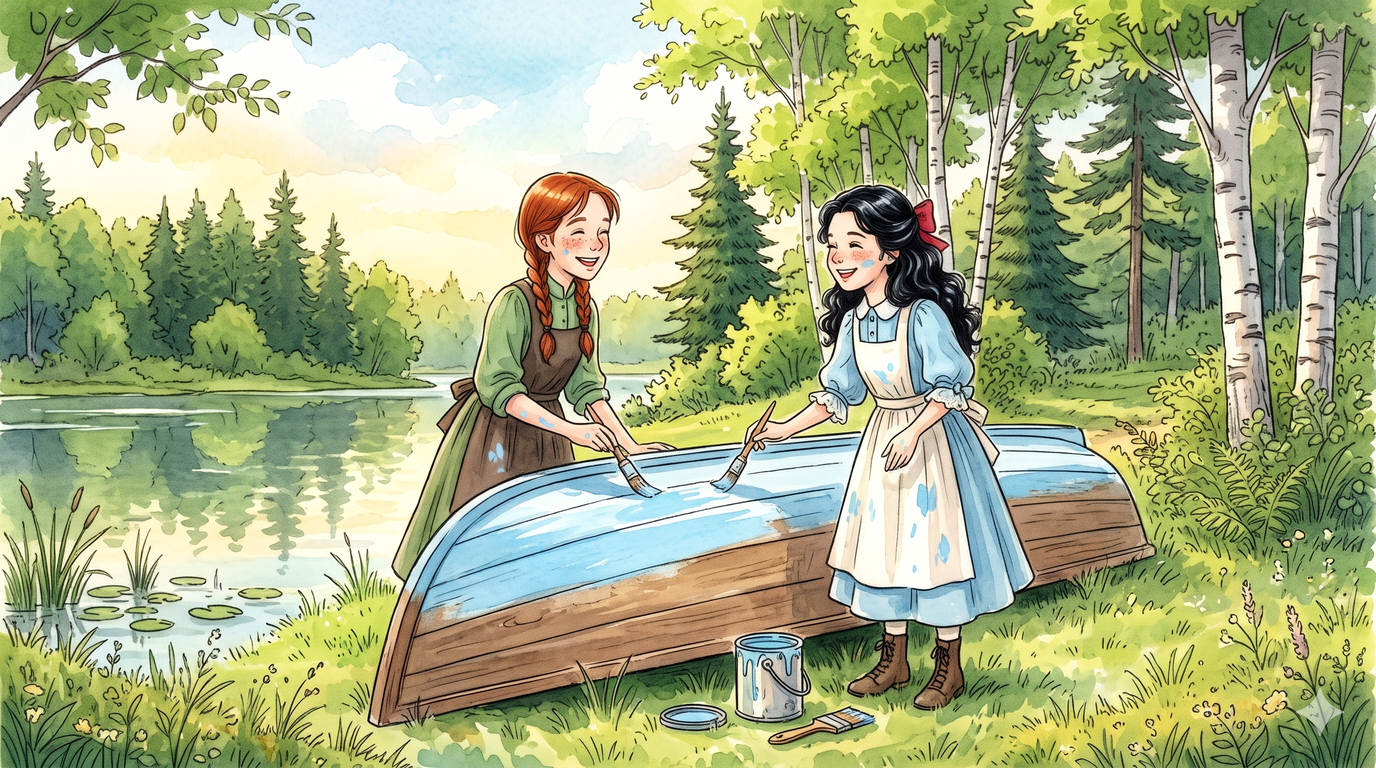
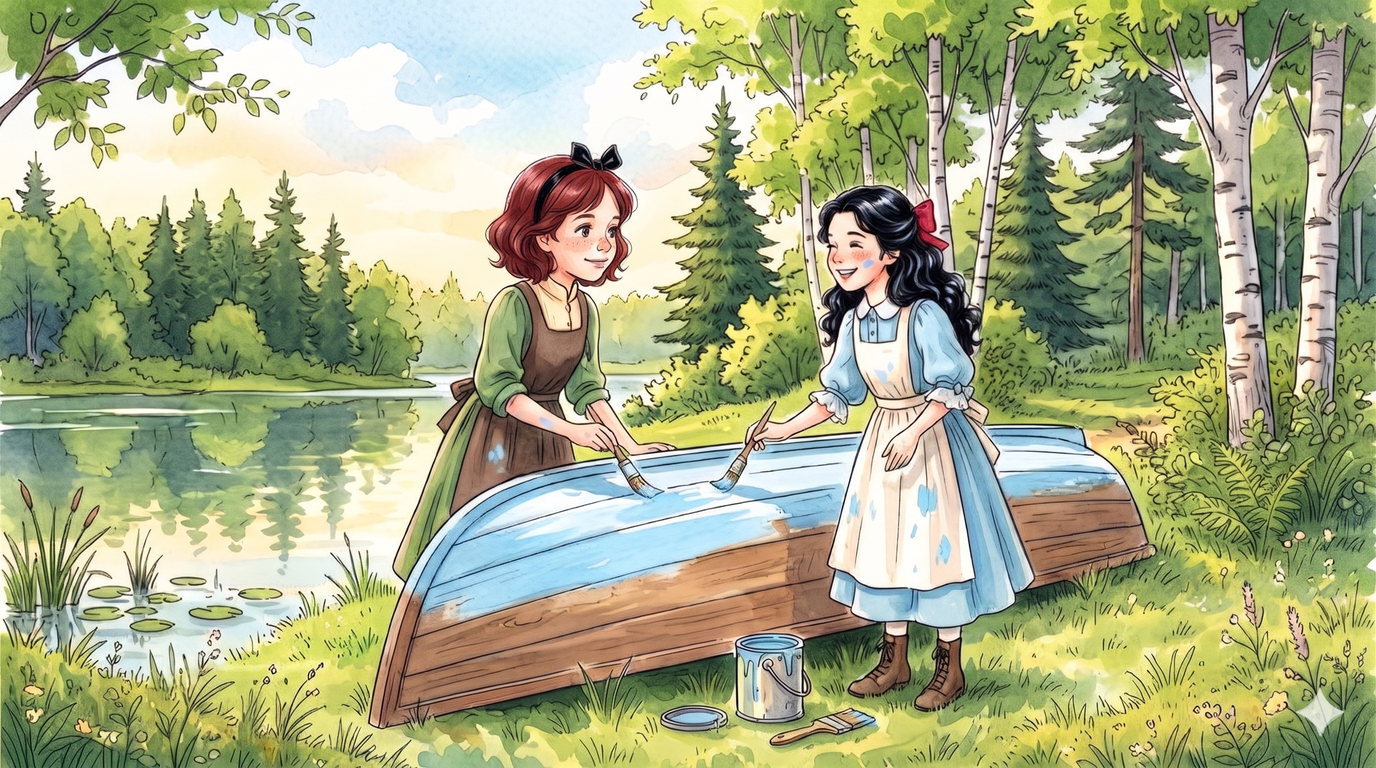
9장 앤 곱슬머리+검은 리본 인물 그림 5장·결말 2장 머리 수정, 어른 앤(적갈색 땋아 올린 머리)·어른 다이애나 새로, 10장 첫 장면 어른 앤

diff --git a/easy/index.html b/easy/index.html
@@ -604,7 +604,7 @@
 <div class="toast" id="toast"></div>
 <div class="tip" id="tip" hidden></div>
 
-<script id="embedded-images">window.EMBEDDED_IMAGES = {}; window.STUDENT_MODE = true; window.EASY_MODE = true; window.IMAGE_FILES = {"allan": "img/allan.webp", "anne_angry": "img/anne_angry.webp", "anne_dreamy": "img/anne_dreamy.webp", "anne_green_hair": "img/anne_green_hair.webp", "anne_grown": "img/anne_grown.webp", "anne_happy": "img/anne_happy.webp", "anne_sad": "img/anne_sad.webp", "anne_short_dreamy": "img/anne_short_dreamy.webp", "anne_short_happy": "img/anne_short_happy.webp", "anne_short_sad": "img/anne_short_sad.webp", "anne_surprised": "img/anne_surprised.webp", "av_allan": "img/av_allan.webp", "av_barry": "img/av_barry.webp", "av_diana": "img/av_diana.webp", "av_gilbert": "img/av_gilbert.webp", "av_lynde": "img/av_lynde.webp", "av_marilla": "img/av_marilla.webp", "av_matthew": "img/av_matthew.webp", "barry": "img/barry.webp", "ch1": "img/ch1.webp", "ch10": "img/ch10.webp", "ch10_hill": "img/ch10_hill.webp", "ch10_home": "img/ch10_home.webp", "ch10_pasture": "img/ch10_pasture.webp", "ch1_avenue": "img/ch1_avenue.webp", "ch1_home": "img/ch1_home.webp", "ch1_pond": "img/ch1_pond.webp", "ch1_road": "img/ch1_road.webp", "ch2": "img/ch2.webp", "ch2_lane": "img/ch2_lane.webp", "ch2_lynde": "img/ch2_lynde.webp", "ch2_night": "img/ch2_night.webp", "ch2_room": "img/ch2_room.webp", "ch3": "img/ch3.webp", "ch3_bridge": "img/ch3_bridge.webp", "ch3_garden": "img/ch3_garden.webp", "ch3_path": "img/ch3_path.webp", "ch4": "img/ch4.webp", "ch4_birch": "img/ch4_birch.webp", "ch4_spruce": "img/ch4_spruce.webp", "ch4_yard": "img/ch4_yard.webp", "ch5": "img/ch5.webp", "ch5_dusk": "img/ch5_dusk.webp", "ch5_orchard": "img/ch5_orchard.webp", "ch6": "img/ch6.webp", "ch6_barry": "img/ch6_barry.webp", "ch6_morning": "img/ch6_morning.webp", "ch6_snow": "img/ch6_snow.webp", "ch7": "img/ch7.webp", "ch7_garden": "img/ch7_garden.webp", "ch7_spring": "img/ch7_spring.webp", "ch8": "img/ch8.webp", "ch8_attic": "img/ch8_attic.webp", "ch8_mirror": "img/ch8_mirror.webp", "ch8_porch": "img/ch8_porch.webp", "ch9": "img/ch9.webp", "ch9_bridge": "img/ch9_bridge.webp", "ch9_drift": "img/ch9_drift.webp", "diana": "img/diana.webp", "diana_grown": "img/diana_grown.webp", "doctor": "img/doctor.webp", "ed_ch1_bal": "img/ed_ch1_bal.webp", "ed_ch1_canon": "img/ed_ch1_canon.webp", "ed_ch1_imag": "img/ed_ch1_imag.webp", "ed_ch2_bal": "img/ed_ch2_bal.webp", "ed_ch2_canon": "img/ed_ch2_canon.webp", "ed_ch2_imag": "img/ed_ch2_imag.webp", "ed_ch3_bal": "img/ed_ch3_bal.webp", "ed_ch3_canon": "img/ed_ch3_canon.webp", "ed_ch3_imag": "img/ed_ch3_imag.webp", "ed_ch4_bal": "img/ed_ch4_bal.webp", "ed_ch4_canon": "img/ed_ch4_canon.webp", "ed_ch4_imag": "img/ed_ch4_imag.webp", "ed_ch5_bal": "img/ed_ch5_bal.webp", "ed_ch5_canon": "img/ed_ch5_canon.webp", "ed_ch5_imag": "img/ed_ch5_imag.webp", "ed_ch6_bal": "img/ed_ch6_bal.webp", "ed_ch6_canon": "img/ed_ch6_canon.webp", "ed_ch6_imag": "img/ed_ch6_imag.webp", "ed_ch7_bal": "img/ed_ch7_bal.webp", "ed_ch7_canon": "img/ed_ch7_canon.webp", "ed_ch7_imag": "img/ed_ch7_imag.webp", "ed_ch8_bal": "img/ed_ch8_bal.webp", "ed_ch8_canon": "img/ed_ch8_canon.webp", "ed_ch8_imag": "img/ed_ch8_imag.webp", "ed_ch9_bal": "img/ed_ch9_bal.webp", "ed_ch9_canon": "img/ed_ch9_canon.webp", "ed_ch9_imag": "img/ed_ch9_imag.webp", "gilbert": "img/gilbert.webp", "gilbert_grown": "img/gilbert_grown.webp", "it_auburn": "img/it_auburn.webp", "it_avery": "img/it_avery.webp", "it_bend": "img/it_bend.webp", "it_bookmark": "img/it_bookmark.webp", "it_bottle": "img/it_bottle.webp", "it_candle": "img/it_candle.webp", "it_candy": "img/it_candy.webp", "it_carpetbag": "img/it_carpetbag.webp", "it_choco": "img/it_choco.webp", "it_dye": "img/it_dye.webp", "it_garden": "img/it_garden.webp", "it_hanky": "img/it_hanky.webp", "it_iris": "img/it_iris.webp", "it_jamKey": "img/it_jamKey.webp", "it_lily": "img/it_lily.webp", "it_lock": "img/it_lock.webp", "it_maple": "img/it_maple.webp", "it_namecard": "img/it_namecard.webp", "it_narcissi": "img/it_narcissi.webp", "it_narcissus": "img/it_narcissus.webp", "it_note": "img/it_note.webp", "it_oar": "img/it_oar.webp", "it_pansy": "img/it_pansy.webp", "it_pebble": "img/it_pebble.webp", "it_petal": "img/it_petal.webp", "it_pile": "img/it_pile.webp", "it_plum": "img/it_plum.webp", "it_poem": "img/it_poem.webp", "it_rainbow": "img/it_rainbow.webp", "it_ribbon": "img/it_ribbon.webp", "it_ricelily": "img/it_ricelily.webp", "it_rosecard": "img/it_rosecard.webp", "it_scissors": "img/it_scissors.webp", "it_scotchRose": "img/it_scotchRose.webp", "it_shawl": "img/it_shawl.webp", "it_slate": "img/it_slate.webp", "it_star": "img/it_star.webp", "it_taffy": "img/it_taffy.webp", "it_vow": "img/it_vow.webp", "it_wreath": "img/it_wreath.webp", "lynde": "img/lynde.webp", "marilla_strict": "img/marilla_strict.webp", "marilla_warm": "img/marilla_warm.webp", "matthew": "img/matthew.webp", "minnie_may": "img/minnie_may.webp", "phillips": "img/phillips.webp", "sc_apologyPoem": "img/sc_apologyPoem.webp", "sc_biggerPerson": "img/sc_biggerPerson.webp", "sc_castle": "img/sc_castle.webp", "sc_cherry": "img/sc_cherry.webp", "sc_curse": "img/sc_curse.webp", "sc_flying": "img/sc_flying.webp", "sc_honest": "img/sc_honest.webp", "sc_matthewTalk": "img/sc_matthewTalk.webp", "sc_mirror": "img/sc_mirror.webp", "sc_note": "img/sc_note.webp", "sc_poem": "img/sc_poem.webp", "sc_princess": "img/sc_princess.webp", "sc_quietHurt": "img/sc_quietHurt.webp", "sc_rehearsal": "img/sc_rehearsal.webp", "sc_sunsetHair": "img/sc_sunsetHair.webp", "sc_waiting": "img/sc_waiting.webp"};</script>
+<script id="embedded-images">window.EMBEDDED_IMAGES = {}; window.STUDENT_MODE = true; window.EASY_MODE = true; window.IMAGE_FILES = {"allan": "img/allan.webp", "anne_angry": "img/anne_angry.webp", "anne_dreamy": "img/anne_dreamy.webp", "anne_green_hair": "img/anne_green_hair.webp", "anne_grow_angry": "img/anne_grow_angry.webp", "anne_grow_dreamy": "img/anne_grow_dreamy.webp", "anne_grow_happy": "img/anne_grow_happy.webp", "anne_grow_sad": "img/anne_grow_sad.webp", "anne_grow_surprised": "img/anne_grow_surprised.webp", "anne_grown": "img/anne_grown.webp", "anne_happy": "img/anne_happy.webp", "anne_sad": "img/anne_sad.webp", "anne_short_dreamy": "img/anne_short_dreamy.webp", "anne_short_happy": "img/anne_short_happy.webp", "anne_short_sad": "img/anne_short_sad.webp", "anne_surprised": "img/anne_surprised.webp", "av_allan": "img/av_allan.webp", "av_barry": "img/av_barry.webp", "av_diana": "img/av_diana.webp", "av_gilbert": "img/av_gilbert.webp", "av_lynde": "img/av_lynde.webp", "av_marilla": "img/av_marilla.webp", "av_matthew": "img/av_matthew.webp", "barry": "img/barry.webp", "ch1": "img/ch1.webp", "ch10": "img/ch10.webp", "ch10_hill": "img/ch10_hill.webp", "ch10_home": "img/ch10_home.webp", "ch10_pasture": "img/ch10_pasture.webp", "ch1_avenue": "img/ch1_avenue.webp", "ch1_home": "img/ch1_home.webp", "ch1_pond": "img/ch1_pond.webp", "ch1_road": "img/ch1_road.webp", "ch2": "img/ch2.webp", "ch2_lane": "img/ch2_lane.webp", "ch2_lynde": "img/ch2_lynde.webp", "ch2_night": "img/ch2_night.webp", "ch2_room": "img/ch2_room.webp", "ch3": "img/ch3.webp", "ch3_bridge": "img/ch3_bridge.webp", "ch3_garden": "img/ch3_garden.webp", "ch3_path": "img/ch3_path.webp", "ch4": "img/ch4.webp", "ch4_birch": "img/ch4_birch.webp", "ch4_spruce": "img/ch4_spruce.webp", "ch4_yard": "img/ch4_yard.webp", "ch5": "img/ch5.webp", "ch5_dusk": "img/ch5_dusk.webp", "ch5_orchard": "img/ch5_orchard.webp", "ch6": "img/ch6.webp", "ch6_barry": "img/ch6_barry.webp", "ch6_morning": "img/ch6_morning.webp", "ch6_snow": "img/ch6_snow.webp", "ch7": "img/ch7.webp", "ch7_garden": "img/ch7_garden.webp", "ch7_spring": "img/ch7_spring.webp", "ch8": "img/ch8.webp", "ch8_attic": "img/ch8_attic.webp", "ch8_mirror": "img/ch8_mirror.webp", "ch8_porch": "img/ch8_porch.webp", "ch9": "img/ch9.webp", "ch9_bridge": "img/ch9_bridge.webp", "ch9_drift": "img/ch9_drift.webp", "diana": "img/diana.webp", "diana_grown": "img/diana_grown.webp", "doctor": "img/doctor.webp", "ed_ch1_bal": "img/ed_ch1_bal.webp", "ed_ch1_canon": "img/ed_ch1_canon.webp", "ed_ch1_imag": "img/ed_ch1_imag.webp", "ed_ch2_bal": "img/ed_ch2_bal.webp", "ed_ch2_canon": "img/ed_ch2_canon.webp", "ed_ch2_imag": "img/ed_ch2_imag.webp", "ed_ch3_bal": "img/ed_ch3_bal.webp", "ed_ch3_canon": "img/ed_ch3_canon.webp", "ed_ch3_imag": "img/ed_ch3_imag.webp", "ed_ch4_bal": "img/ed_ch4_bal.webp", "ed_ch4_canon": "img/ed_ch4_canon.webp", "ed_ch4_imag": "img/ed_ch4_imag.webp", "ed_ch5_bal": "img/ed_ch5_bal.webp", "ed_ch5_canon": "img/ed_ch5_canon.webp", "ed_ch5_imag": "img/ed_ch5_imag.webp", "ed_ch6_bal": "img/ed_ch6_bal.webp", "ed_ch6_canon": "img/ed_ch6_canon.webp", "ed_ch6_imag": "img/ed_ch6_imag.webp", "ed_ch7_bal": "img/ed_ch7_bal.webp", "ed_ch7_canon": "img/ed_ch7_canon.webp", "ed_ch7_imag": "img/ed_ch7_imag.webp", "ed_ch8_bal": "img/ed_ch8_bal.webp", "ed_ch8_canon": "img/ed_ch8_canon.webp", "ed_ch8_imag": "img/ed_ch8_imag.webp", "ed_ch9_bal": "img/ed_ch9_bal.webp", "ed_ch9_canon": "img/ed_ch9_canon.webp", "ed_ch9_imag": "img/ed_ch9_imag.webp", "gilbert": "img/gilbert.webp", "gilbert_grown": "img/gilbert_grown.webp", "it_auburn": "img/it_auburn.webp", "it_avery": "img/it_avery.webp", "it_bend": "img/it_bend.webp", "it_bookmark": "img/it_bookmark.webp", "it_bottle": "img/it_bottle.webp", "it_candle": "img/it_candle.webp", "it_candy": "img/it_candy.webp", "it_carpetbag": "img/it_carpetbag.webp", "it_choco": "img/it_choco.webp", "it_dye": "img/it_dye.webp", "it_garden": "img/it_garden.webp", "it_hanky": "img/it_hanky.webp", "it_iris": "img/it_iris.webp", "it_jamKey": "img/it_jamKey.webp", "it_lily": "img/it_lily.webp", "it_lock": "img/it_lock.webp", "it_maple": "img/it_maple.webp", "it_namecard": "img/it_namecard.webp", "it_narcissi": "img/it_narcissi.webp", "it_narcissus": "img/it_narcissus.webp", "it_note": "img/it_note.webp", "it_oar": "img/it_oar.webp", "it_pansy": "img/it_pansy.webp", "it_pebble": "img/it_pebble.webp", "it_petal": "img/it_petal.webp", "it_pile": "img/it_pile.webp", "it_plum": "img/it_plum.webp", "it_poem": "img/it_poem.webp", "it_rainbow": "img/it_rainbow.webp", "it_ribbon": "img/it_ribbon.webp", "it_ricelily": "img/it_ricelily.webp", "it_rosecard": "img/it_rosecard.webp", "it_scissors": "img/it_scissors.webp", "it_scotchRose": "img/it_scotchRose.webp", "it_shawl": "img/it_shawl.webp", "it_slate": "img/it_slate.webp", "it_star": "img/it_star.webp", "it_taffy": "img/it_taffy.webp", "it_vow": "img/it_vow.webp", "it_wreath": "img/it_wreath.webp", "lynde": "img/lynde.webp", "marilla_strict": "img/marilla_strict.webp", "marilla_warm": "img/marilla_warm.webp", "matthew": "img/matthew.webp", "minnie_may": "img/minnie_may.webp", "phillips": "img/phillips.webp", "sc_apologyPoem": "img/sc_apologyPoem.webp", "sc_biggerPerson": "img/sc_biggerPerson.webp", "sc_castle": "img/sc_castle.webp", "sc_cherry": "img/sc_cherry.webp", "sc_curse": "img/sc_curse.webp", "sc_flying": "img/sc_flying.webp", "sc_honest": "img/sc_honest.webp", "sc_matthewTalk": "img/sc_matthewTalk.webp", "sc_mirror": "img/sc_mirror.webp", "sc_note": "img/sc_note.webp", "sc_poem": "img/sc_poem.webp", "sc_princess": "img/sc_princess.webp", "sc_quietHurt": "img/sc_quietHurt.webp", "sc_rehearsal": "img/sc_rehearsal.webp", "sc_sunsetHair": "img/sc_sunsetHair.webp", "sc_waiting": "img/sc_waiting.webp"};</script>
 <script>
 const BOOK = {};
 const CHAPTERS = [];
@@ -4426,7 +4426,7 @@ CHAPTERS.push({
   },
   nodes: [
   /* ---------- 지난 이야기 ---------- */
-  {id:`b1`, bg:`ch4`, w:`anne`, in:1, f:`anne_happy`, cam:`out`,
+  {id:`b1`, bg:`ch4`, w:`anne`, in:1, f:`anne_grown`, cam:`out`,
    e:`백합 아가씨 사건 뒤로 3년이 흘렀어. 스테이시 선생님의 퀸스 반에서 열심히 공부한 끝에, 나는 퀸스 학원 입학시험에 합격했어. 그것도 이백 명 중 일등으로! 길버트랑 동점이었지만, 내 이름이 맨 위에 있었어.`,
    l:`백합 아가씨 사건 뒤로 3년이 흘렀다. 스테이시 선생님의 퀸스 반에서 공부한 끝에, 나는 퀸스 학원 입학시험에 합격했다. 이백 명 가운데 일등으로. 길버트와 동점이었지만 내 이름이 맨 위에 있었다.`},
   {bg:`ch10_home`, w:`anne`, in:1, f:`anne_grown`, bk:[`32-40`,`32-41`], cam:`in`,

diff --git a/index.html b/index.html
@@ -603,7 +603,7 @@
 <div class="toast" id="toast"></div>
 <div class="tip" id="tip" hidden></div>
 
-<script id="embedded-images">window.EMBEDDED_IMAGES = {}; window.STUDENT_MODE = true; window.IMAGE_FILES = {"allan": "img/allan.webp", "anne_angry": "img/anne_angry.webp", "anne_dreamy": "img/anne_dreamy.webp", "anne_green_hair": "img/anne_green_hair.webp", "anne_grown": "img/anne_grown.webp", "anne_happy": "img/anne_happy.webp", "anne_sad": "img/anne_sad.webp", "anne_short_dreamy": "img/anne_short_dreamy.webp", "anne_short_happy": "img/anne_short_happy.webp", "anne_short_sad": "img/anne_short_sad.webp", "anne_surprised": "img/anne_surprised.webp", "av_allan": "img/av_allan.webp", "av_barry": "img/av_barry.webp", "av_diana": "img/av_diana.webp", "av_gilbert": "img/av_gilbert.webp", "av_lynde": "img/av_lynde.webp", "av_marilla": "img/av_marilla.webp", "av_matthew": "img/av_matthew.webp", "barry": "img/barry.webp", "ch1": "img/ch1.webp", "ch10": "img/ch10.webp", "ch10_hill": "img/ch10_hill.webp", "ch10_home": "img/ch10_home.webp", "ch10_pasture": "img/ch10_pasture.webp", "ch1_avenue": "img/ch1_avenue.webp", "ch1_home": "img/ch1_home.webp", "ch1_pond": "img/ch1_pond.webp", "ch1_road": "img/ch1_road.webp", "ch2": "img/ch2.webp", "ch2_lane": "img/ch2_lane.webp", "ch2_lynde": "img/ch2_lynde.webp", "ch2_night": "img/ch2_night.webp", "ch2_room": "img/ch2_room.webp", "ch3": "img/ch3.webp", "ch3_bridge": "img/ch3_bridge.webp", "ch3_garden": "img/ch3_garden.webp", "ch3_path": "img/ch3_path.webp", "ch4": "img/ch4.webp", "ch4_birch": "img/ch4_birch.webp", "ch4_spruce": "img/ch4_spruce.webp", "ch4_yard": "img/ch4_yard.webp", "ch5": "img/ch5.webp", "ch5_dusk": "img/ch5_dusk.webp", "ch5_orchard": "img/ch5_orchard.webp", "ch6": "img/ch6.webp", "ch6_barry": "img/ch6_barry.webp", "ch6_morning": "img/ch6_morning.webp", "ch6_snow": "img/ch6_snow.webp", "ch7": "img/ch7.webp", "ch7_garden": "img/ch7_garden.webp", "ch7_spring": "img/ch7_spring.webp", "ch8": "img/ch8.webp", "ch8_attic": "img/ch8_attic.webp", "ch8_mirror": "img/ch8_mirror.webp", "ch8_porch": "img/ch8_porch.webp", "ch9": "img/ch9.webp", "ch9_bridge": "img/ch9_bridge.webp", "ch9_drift": "img/ch9_drift.webp", "diana": "img/diana.webp", "diana_grown": "img/diana_grown.webp", "doctor": "img/doctor.webp", "ed_ch1_bal": "img/ed_ch1_bal.webp", "ed_ch1_canon": "img/ed_ch1_canon.webp", "ed_ch1_imag": "img/ed_ch1_imag.webp", "ed_ch2_bal": "img/ed_ch2_bal.webp", "ed_ch2_canon": "img/ed_ch2_canon.webp", "ed_ch2_imag": "img/ed_ch2_imag.webp", "ed_ch3_bal": "img/ed_ch3_bal.webp", "ed_ch3_canon": "img/ed_ch3_canon.webp", "ed_ch3_imag": "img/ed_ch3_imag.webp", "ed_ch4_bal": "img/ed_ch4_bal.webp", "ed_ch4_canon": "img/ed_ch4_canon.webp", "ed_ch4_imag": "img/ed_ch4_imag.webp", "ed_ch5_bal": "img/ed_ch5_bal.webp", "ed_ch5_canon": "img/ed_ch5_canon.webp", "ed_ch5_imag": "img/ed_ch5_imag.webp", "ed_ch6_bal": "img/ed_ch6_bal.webp", "ed_ch6_canon": "img/ed_ch6_canon.webp", "ed_ch6_imag": "img/ed_ch6_imag.webp", "ed_ch7_bal": "img/ed_ch7_bal.webp", "ed_ch7_canon": "img/ed_ch7_canon.webp", "ed_ch7_imag": "img/ed_ch7_imag.webp", "ed_ch8_bal": "img/ed_ch8_bal.webp", "ed_ch8_canon": "img/ed_ch8_canon.webp", "ed_ch8_imag": "img/ed_ch8_imag.webp", "ed_ch9_bal": "img/ed_ch9_bal.webp", "ed_ch9_canon": "img/ed_ch9_canon.webp", "ed_ch9_imag": "img/ed_ch9_imag.webp", "gilbert": "img/gilbert.webp", "gilbert_grown": "img/gilbert_grown.webp", "it_auburn": "img/it_auburn.webp", "it_avery": "img/it_avery.webp", "it_bend": "img/it_bend.webp", "it_bookmark": "img/it_bookmark.webp", "it_bottle": "img/it_bottle.webp", "it_candle": "img/it_candle.webp", "it_candy": "img/it_candy.webp", "it_carpetbag": "img/it_carpetbag.webp", "it_choco": "img/it_choco.webp", "it_dye": "img/it_dye.webp", "it_garden": "img/it_garden.webp", "it_hanky": "img/it_hanky.webp", "it_iris": "img/it_iris.webp", "it_jamKey": "img/it_jamKey.webp", "it_lily": "img/it_lily.webp", "it_lock": "img/it_lock.webp", "it_maple": "img/it_maple.webp", "it_namecard": "img/it_namecard.webp", "it_narcissi": "img/it_narcissi.webp", "it_narcissus": "img/it_narcissus.webp", "it_note": "img/it_note.webp", "it_oar": "img/it_oar.webp", "it_pansy": "img/it_pansy.webp", "it_pebble": "img/it_pebble.webp", "it_petal": "img/it_petal.webp", "it_pile": "img/it_pile.webp", "it_plum": "img/it_plum.webp", "it_poem": "img/it_poem.webp", "it_rainbow": "img/it_rainbow.webp", "it_ribbon": "img/it_ribbon.webp", "it_ricelily": "img/it_ricelily.webp", "it_rosecard": "img/it_rosecard.webp", "it_scissors": "img/it_scissors.webp", "it_scotchRose": "img/it_scotchRose.webp", "it_shawl": "img/it_shawl.webp", "it_slate": "img/it_slate.webp", "it_star": "img/it_star.webp", "it_taffy": "img/it_taffy.webp", "it_vow": "img/it_vow.webp", "it_wreath": "img/it_wreath.webp", "lynde": "img/lynde.webp", "marilla_strict": "img/marilla_strict.webp", "marilla_warm": "img/marilla_warm.webp", "matthew": "img/matthew.webp", "minnie_may": "img/minnie_may.webp", "phillips": "img/phillips.webp", "sc_apologyPoem": "img/sc_apologyPoem.webp", "sc_biggerPerson": "img/sc_biggerPerson.webp", "sc_castle": "img/sc_castle.webp", "sc_cherry": "img/sc_cherry.webp", "sc_curse": "img/sc_curse.webp", "sc_flying": "img/sc_flying.webp", "sc_honest": "img/sc_honest.webp", "sc_matthewTalk": "img/sc_matthewTalk.webp", "sc_mirror": "img/sc_mirror.webp", "sc_note": "img/sc_note.webp", "sc_poem": "img/sc_poem.webp", "sc_princess": "img/sc_princess.webp", "sc_quietHurt": "img/sc_quietHurt.webp", "sc_rehearsal": "img/sc_rehearsal.webp", "sc_sunsetHair": "img/sc_sunsetHair.webp", "sc_waiting": "img/sc_waiting.webp"};</script>
+<script id="embedded-images">window.EMBEDDED_IMAGES = {}; window.STUDENT_MODE = true; window.IMAGE_FILES = {"allan": "img/allan.webp", "anne_angry": "img/anne_angry.webp", "anne_dreamy": "img/anne_dreamy.webp", "anne_green_hair": "img/anne_green_hair.webp", "anne_grow_angry": "img/anne_grow_angry.webp", "anne_grow_dreamy": "img/anne_grow_dreamy.webp", "anne_grow_happy": "img/anne_grow_happy.webp", "anne_grow_sad": "img/anne_grow_sad.webp", "anne_grow_surprised": "img/anne_grow_surprised.webp", "anne_grown": "img/anne_grown.webp", "anne_happy": "img/anne_happy.webp", "anne_sad": "img/anne_sad.webp", "anne_short_dreamy": "img/anne_short_dreamy.webp", "anne_short_happy": "img/anne_short_happy.webp", "anne_short_sad": "img/anne_short_sad.webp", "anne_surprised": "img/anne_surprised.webp", "av_allan": "img/av_allan.webp", "av_barry": "img/av_barry.webp", "av_diana": "img/av_diana.webp", "av_gilbert": "img/av_gilbert.webp", "av_lynde": "img/av_lynde.webp", "av_marilla": "img/av_marilla.webp", "av_matthew": "img/av_matthew.webp", "barry": "img/barry.webp", "ch1": "img/ch1.webp", "ch10": "img/ch10.webp", "ch10_hill": "img/ch10_hill.webp", "ch10_home": "img/ch10_home.webp", "ch10_pasture": "img/ch10_pasture.webp", "ch1_avenue": "img/ch1_avenue.webp", "ch1_home": "img/ch1_home.webp", "ch1_pond": "img/ch1_pond.webp", "ch1_road": "img/ch1_road.webp", "ch2": "img/ch2.webp", "ch2_lane": "img/ch2_lane.webp", "ch2_lynde": "img/ch2_lynde.webp", "ch2_night": "img/ch2_night.webp", "ch2_room": "img/ch2_room.webp", "ch3": "img/ch3.webp", "ch3_bridge": "img/ch3_bridge.webp", "ch3_garden": "img/ch3_garden.webp", "ch3_path": "img/ch3_path.webp", "ch4": "img/ch4.webp", "ch4_birch": "img/ch4_birch.webp", "ch4_spruce": "img/ch4_spruce.webp", "ch4_yard": "img/ch4_yard.webp", "ch5": "img/ch5.webp", "ch5_dusk": "img/ch5_dusk.webp", "ch5_orchard": "img/ch5_orchard.webp", "ch6": "img/ch6.webp", "ch6_barry": "img/ch6_barry.webp", "ch6_morning": "img/ch6_morning.webp", "ch6_snow": "img/ch6_snow.webp", "ch7": "img/ch7.webp", "ch7_garden": "img/ch7_garden.webp", "ch7_spring": "img/ch7_spring.webp", "ch8": "img/ch8.webp", "ch8_attic": "img/ch8_attic.webp", "ch8_mirror": "img/ch8_mirror.webp", "ch8_porch": "img/ch8_porch.webp", "ch9": "img/ch9.webp", "ch9_bridge": "img/ch9_bridge.webp", "ch9_drift": "img/ch9_drift.webp", "diana": "img/diana.webp", "diana_grown": "img/diana_grown.webp", "doctor": "img/doctor.webp", "ed_ch1_bal": "img/ed_ch1_bal.webp", "ed_ch1_canon": "img/ed_ch1_canon.webp", "ed_ch1_imag": "img/ed_ch1_imag.webp", "ed_ch2_bal": "img/ed_ch2_bal.webp", "ed_ch2_canon": "img/ed_ch2_canon.webp", "ed_ch2_imag": "img/ed_ch2_imag.webp", "ed_ch3_bal": "img/ed_ch3_bal.webp", "ed_ch3_canon": "img/ed_ch3_canon.webp", "ed_ch3_imag": "img/ed_ch3_imag.webp", "ed_ch4_bal": "img/ed_ch4_bal.webp", "ed_ch4_canon": "img/ed_ch4_canon.webp", "ed_ch4_imag": "img/ed_ch4_imag.webp", "ed_ch5_bal": "img/ed_ch5_bal.webp", "ed_ch5_canon": "img/ed_ch5_canon.webp", "ed_ch5_imag": "img/ed_ch5_imag.webp", "ed_ch6_bal": "img/ed_ch6_bal.webp", "ed_ch6_canon": "img/ed_ch6_canon.webp", "ed_ch6_imag": "img/ed_ch6_imag.webp", "ed_ch7_bal": "img/ed_ch7_bal.webp", "ed_ch7_canon": "img/ed_ch7_canon.webp", "ed_ch7_imag": "img/ed_ch7_imag.webp", "ed_ch8_bal": "img/ed_ch8_bal.webp", "ed_ch8_canon": "img/ed_ch8_canon.webp", "ed_ch8_imag": "img/ed_ch8_imag.webp", "ed_ch9_bal": "img/ed_ch9_bal.webp", "ed_ch9_canon": "img/ed_ch9_canon.webp", "ed_ch9_imag": "img/ed_ch9_imag.webp", "gilbert": "img/gilbert.webp", "gilbert_grown": "img/gilbert_grown.webp", "it_auburn": "img/it_auburn.webp", "it_avery": "img/it_avery.webp", "it_bend": "img/it_bend.webp", "it_bookmark": "img/it_bookmark.webp", "it_bottle": "img/it_bottle.webp", "it_candle": "img/it_candle.webp", "it_candy": "img/it_candy.webp", "it_carpetbag": "img/it_carpetbag.webp", "it_choco": "img/it_choco.webp", "it_dye": "img/it_dye.webp", "it_garden": "img/it_garden.webp", "it_hanky": "img/it_hanky.webp", "it_iris": "img/it_iris.webp", "it_jamKey": "img/it_jamKey.webp", "it_lily": "img/it_lily.webp", "it_lock": "img/it_lock.webp", "it_maple": "img/it_maple.webp", "it_namecard": "img/it_namecard.webp", "it_narcissi": "img/it_narcissi.webp", "it_narcissus": "img/it_narcissus.webp", "it_note": "img/it_note.webp", "it_oar": "img/it_oar.webp", "it_pansy": "img/it_pansy.webp", "it_pebble": "img/it_pebble.webp", "it_petal": "img/it_petal.webp", "it_pile": "img/it_pile.webp", "it_plum": "img/it_plum.webp", "it_poem": "img/it_poem.webp", "it_rainbow": "img/it_rainbow.webp", "it_ribbon": "img/it_ribbon.webp", "it_ricelily": "img/it_ricelily.webp", "it_rosecard": "img/it_rosecard.webp", "it_scissors": "img/it_scissors.webp", "it_scotchRose": "img/it_scotchRose.webp", "it_shawl": "img/it_shawl.webp", "it_slate": "img/it_slate.webp", "it_star": "img/it_star.webp", "it_taffy": "img/it_taffy.webp", "it_vow": "img/it_vow.webp", "it_wreath": "img/it_wreath.webp", "lynde": "img/lynde.webp", "marilla_strict": "img/marilla_strict.webp", "marilla_warm": "img/marilla_warm.webp", "matthew": "img/matthew.webp", "minnie_may": "img/minnie_may.webp", "phillips": "img/phillips.webp", "sc_apologyPoem": "img/sc_apologyPoem.webp", "sc_biggerPerson": "img/sc_biggerPerson.webp", "sc_castle": "img/sc_castle.webp", "sc_cherry": "img/sc_cherry.webp", "sc_curse": "img/sc_curse.webp", "sc_flying": "img/sc_flying.webp", "sc_honest": "img/sc_honest.webp", "sc_matthewTalk": "img/sc_matthewTalk.webp", "sc_mirror": "img/sc_mirror.webp", "sc_note": "img/sc_note.webp", "sc_poem": "img/sc_poem.webp", "sc_princess": "img/sc_princess.webp", "sc_quietHurt": "img/sc_quietHurt.webp", "sc_rehearsal": "img/sc_rehearsal.webp", "sc_sunsetHair": "img/sc_sunsetHair.webp", "sc_waiting": "img/sc_waiting.webp"};</script>
 <script>
 const BOOK = {};
 const CHAPTERS = [];
@@ -4425,7 +4425,7 @@ CHAPTERS.push({
   },
   nodes: [
   /* ---------- 지난 이야기 ---------- */
-  {id:`b1`, bg:`ch4`, w:`anne`, in:1, f:`anne_happy`, cam:`out`,
+  {id:`b1`, bg:`ch4`, w:`anne`, in:1, f:`anne_grown`, cam:`out`,
    e:`백합 아가씨 사건 뒤로 3년이 흘렀어. 스테이시 선생님의 퀸스 반에서 열심히 공부한 끝에, 나는 퀸스 학원 입학시험에 합격했어. 그것도 이백 명 중 일등으로! 길버트랑 동점이었지만, 내 이름이 맨 위에 있었어.`,
    l:`백합 아가씨 사건 뒤로 3년이 흘렀다. 스테이시 선생님의 퀸스 반에서 공부한 끝에, 나는 퀸스 학원 입학시험에 합격했다. 이백 명 가운데 일등으로. 길버트와 동점이었지만 내 이름이 맨 위에 있었다.`},
   {bg:`ch10_home`, w:`anne`, in:1, f:`anne_grown`, bk:[`32-40`,`32-41`], cam:`in`,

diff --git a/source/build/script_ch10.js b/source/build/script_ch10.js
@@ -39,7 +39,7 @@ CHAPTERS.push({
   },
   nodes: [
   /* ---------- 지난 이야기 ---------- */
-  {id:`b1`, bg:`ch4`, w:`anne`, in:1, f:`anne_happy`, cam:`out`,
+  {id:`b1`, bg:`ch4`, w:`anne`, in:1, f:`anne_grown`, cam:`out`,
    e:`백합 아가씨 사건 뒤로 3년이 흘렀어. 스테이시 선생님의 퀸스 반에서 열심히 공부한 끝에, 나는 퀸스 학원 입학시험에 합격했어. 그것도 이백 명 중 일등으로! 길버트랑 동점이었지만, 내 이름이 맨 위에 있었어.`,
    l:`백합 아가씨 사건 뒤로 3년이 흘렀다. 스테이시 선생님의 퀸스 반에서 공부한 끝에, 나는 퀸스 학원 입학시험에 합격했다. 이백 명 가운데 일등으로. 길버트와 동점이었지만 내 이름이 맨 위에 있었다.`},
   {bg:`ch10_home`, w:`anne`, in:1, f:`anne_grown`, bk:[`32-40`,`32-41`], cam:`in`,

diff --git a/sw.js b/sw.js
@@ -1,5 +1,5 @@
 /* 빨강 머리 앤 오프라인 지원: 인터넷이 되면 항상 최신 판을 먼저 받고, 인터넷이 없으면 저장해 둔 판으로 실행합니다. */
-const CACHE = "anne-vn-v66";
+const CACHE = "anne-vn-v67";
 const FILES = ["./", "./index.html", "./manifest.webmanifest", "./icon-192.png", "./icon-512.png", "./icon-maskable-512.png", "./apple-touch-icon.png"];
 self.addEventListener("install", e => {
   e.waitUntil(caches.open(CACHE).then(c => c.addAll(FILES.map(f => new Request(f, {cache: "reload"})))).then(() => self.skipWaiting()));

diff --git a/source/tools/grab_gemini.py b/source/tools/grab_gemini.py
@@ -1,0 +1,31 @@
+# 다운로드 폴더에서 아직 안 쓴 가장 새 Gemini 그림을 골라 1376x768 로 맞춰 스크래치 폴더에 저장하고, 미리보기 jpg 를 만든다.
+# 사용법: py -3 -I grab.py 저장이름   → 출력: 원본 파일 이름, 크기
+import sys, os, glob, json, time
+from PIL import Image
+name = sys.argv[1]
+here = os.path.dirname(os.path.abspath(__file__))
+used_f = os.path.join(here, 'used.json')
+used = set(json.load(open(used_f, encoding='utf-8'))) if os.path.exists(used_f) else set()
+dl = os.path.join(os.path.expanduser('~'), 'Downloads')
+for _ in range(30):
+    c = [f for f in glob.glob(os.path.join(dl, 'Gemini_Generated_Image_*.png')) if os.path.basename(f) not in used]
+    if c:
+        f = max(c, key=os.path.getmtime)
+        s1 = os.path.getsize(f); time.sleep(1.5)
+        if os.path.getsize(f) == s1 and s1 > 0: break
+    time.sleep(2)
+else:
+    sys.exit('새 다운로드가 없어요')
+im = Image.open(f).convert('RGB')
+print(os.path.basename(f), im.size)
+W, H = (int(sys.argv[2]), int(sys.argv[3])) if len(sys.argv) > 3 else (1376, 768)
+# 비율이 다르면 가운데를 기준으로 잘라 맞춘다
+r = W / H
+if abs(im.width / im.height - r) > 0.01:
+    if im.width / im.height > r:
+        nw = int(im.height * r); x = (im.width - nw) // 2; im = im.crop((x, 0, x + nw, im.height))
+    else:
+        nh = int(im.width / r); y = (im.height - nh) // 2; im = im.crop((0, y, im.width, y + nh))
+im.resize((W, H), Image.LANCZOS).save(os.path.join(here, name + '.png'))
+im.resize((W // 2, H // 2)).save(os.path.join(here, 'check_' + name + '.jpg'), quality=85)
+used.add(os.path.basename(f)); json.dump(sorted(used), open(used_f, 'w', encoding='utf-8'))

diff --git a/남은_그림작업_정리.md b/남은_그림작업_정리.md
@@ -6,14 +6,12 @@
 | 결말 그림 (ed_) | **3장** | 10장 |
 | 숨은 장면 그림 (sc_) | **76장** | 3~10장 |
 | 결말 종류 아이콘 | 3개 | 프롬프트는 결말 그림을 받은 뒤 드림 |
-| 9장 앤 인물 그림 (anne_grow_) | **4장** | sad·dreamy·surprised·angry (happy는 만들어 둠, 아래 참고) |
-| 9장 결말 앤 머리 고치기 | **2장** | ed_ch9_canon·ed_ch9_bal 의 땋은 머리 → 짧은 곱슬머리+검은 벨벳 리본 |
 
-### 앤의 머리 모양 (장면에 맞춰 인물 그림이 바뀜)
-- 1~7장: 땋은 머리 `anne_<표정>` · 8장 염색 뒤: `anne_green_hair` · 8장 머리 자른 뒤(거울 장면부터): `anne_short_<표정>` ✅
-- 9장: `anne_grow_<표정>` — 원작대로 **짧고 보드라운 적갈색 곱슬머리 + 한쪽에 나비 모양으로 묶은 검은 벨벳 리본(스누드)**, 땋은 머리 아님.
-  - 기쁨(happy)만 만들어 두었고(작업 폴더 밖 임시 보관), 5장이 다 모이면 `imgs/in`에 함께 넣어요. 그 전까지 9장은 예전 땋은 머리 그림이 나와요.
-- 10장: `anne_grown` (열여섯 살, 땋아 올린 머리)
+### 앤의 머리 모양 (장면에 맞춰 인물 그림이 바뀜) — 모두 완료
+- 1~7장: 땋은 머리 `anne_<표정>` · 8장 염색 뒤: `anne_green_hair` · 8장 머리 자른 뒤(거울 장면부터): `anne_short_<표정>`
+- 9장: `anne_grow_<표정>` 5장 — 원작대로 **짧고 보드라운 짙은 적갈색 곱슬머리 + 한쪽에 나비 모양으로 묶은 검은 벨벳 리본(스누드)**. 9장 결말 그림도 같은 머리.
+- 10장: `anne_grown` — 붉은 구릿빛 적갈색 머리를 땋아 왕관처럼 감아 올림, 주근깨 거의 없음(원작 "멋진 적갈색"). `diana_grown` — 올린 검은 곱슬머리, 흰 블라우스+하늘색 긴 치마, 조금 통통·발그레(원작).
+- 10장 결말을 만들 때는 새 `anne_grown`·`diana_grown`·`gilbert_grown`을 참고 그림으로 첨부할 것.
 
 ## 하는 순서 (추천)
 1. **결말 그림 3장** — 아이들이 결과 카드에서 가장 먼저 보는 그림이에요(결과 카드 맨 위에 크게 나와요). 10장만 남았어요.
